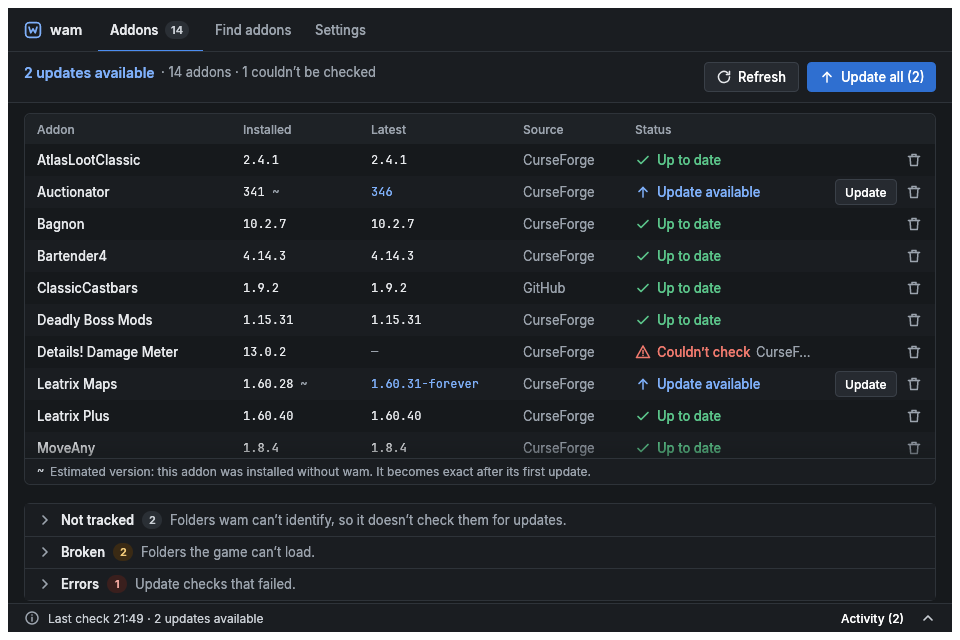
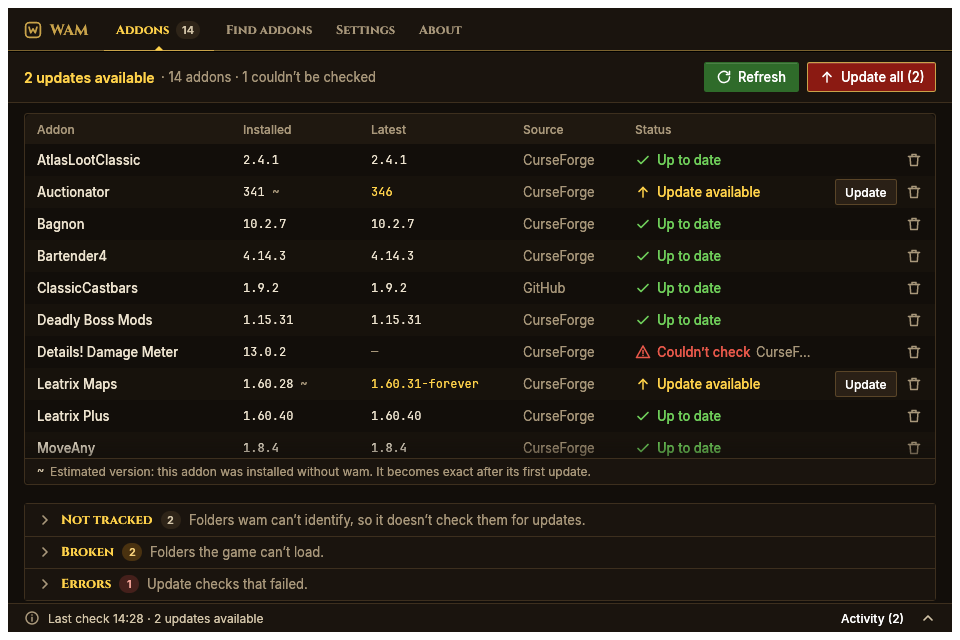
docs(gui): describe the warcraft theme and refresh the screenshot

diff --git a/docs/gui-design/README.md b/docs/gui-design/README.md
@@ -9,7 +9,10 @@ This folder holds the text half: `tokens.json`, `components.md`, `copy.md`, `flo
 A calm utility next to a game launcher. Most people open it, see "2 updates available", press
 **Update all** and close it. So the Addons screen leads with one summary line and one primary
 button, and anything rare (untracked, broken, failed checks) sits in collapsed sections under the
-table with a count pill. Dark first, neutral greys, one blue accent. No ornament.
+table with a count pill. Dark first, with a Warcraft look: leather browns, parchment text, gold accents and frames, a crimson
+primary button and Cinzel capitals for titles and tabs. Ornament stays light: gold lines, a bevel,
+a double-framed dialog, no textures. The HTML mockups in `mockups-src/` still show the earlier
+neutral grey and blue palette; `tokens.json` and the code are current.
 
 Everything maps onto cheap egui parts: `TopBottomPanel` (top bar, toolbar, bottom strip),
 `CentralPanel`, `egui_extras::TableBuilder` (striped, 32 px rows), `CollapsingHeader`-style
@@ -21,7 +24,7 @@ beyond the spinner.
 - Three destinations only (Addons, Find addons, Settings). A sidebar costs 160–200 px of width,
   and at the 720 px minimum the table needs every column.
 - Tabs live in the 44 px top bar next to the app name: `ui.selectable_label` in a horizontal row,
-  2 px accent underline on the active one. Keyboard: Ctrl+1/2/3, Tab order follows reading order.
+  2 px gold underline with a small diamond on the active one. Keyboard: Ctrl+1/2/3, Tab order follows reading order.
 - The Addons tab carries the addon count.
 - While an action runs, the tabs are disabled (opacity 0.45) — one action at a time.
 
@@ -43,14 +46,15 @@ Below 820 px wide the Source column is dropped (it stays in the row tooltip) and
 
 ## Fonts
 
-Inter (Regular, Medium, SemiBold) and JetBrains Mono Regular, both SIL OFL 1.1; bundle the TTFs
+Cinzel Bold for the app name, tabs and section and dialog titles; Inter (Regular, Medium, SemiBold)
+for everything else; JetBrains Mono Regular for versions. All SIL OFL 1.1; bundle the TTFs
 with `egui::FontDefinitions`. Mono is only for versions, paths and refs, so long strings like
 `v12.9.0-beta3-142-gabc1234` line up and truncate predictably.
 
 ## Scaling and keyboard
 
 All sizes are logical px, so 125 % / 150 % come from `pixels_per_point`. Every control is a real
-button or field; focus shows a 2 px `#7FB0FA` ring. Escape closes dialogs; Enter confirms.
+button or field; focus shows a 2 px `#FFD24A` ring. Escape closes dialogs; Enter confirms.
 Status never relies on colour alone: icon + word in every state.
 
 ## Light theme
